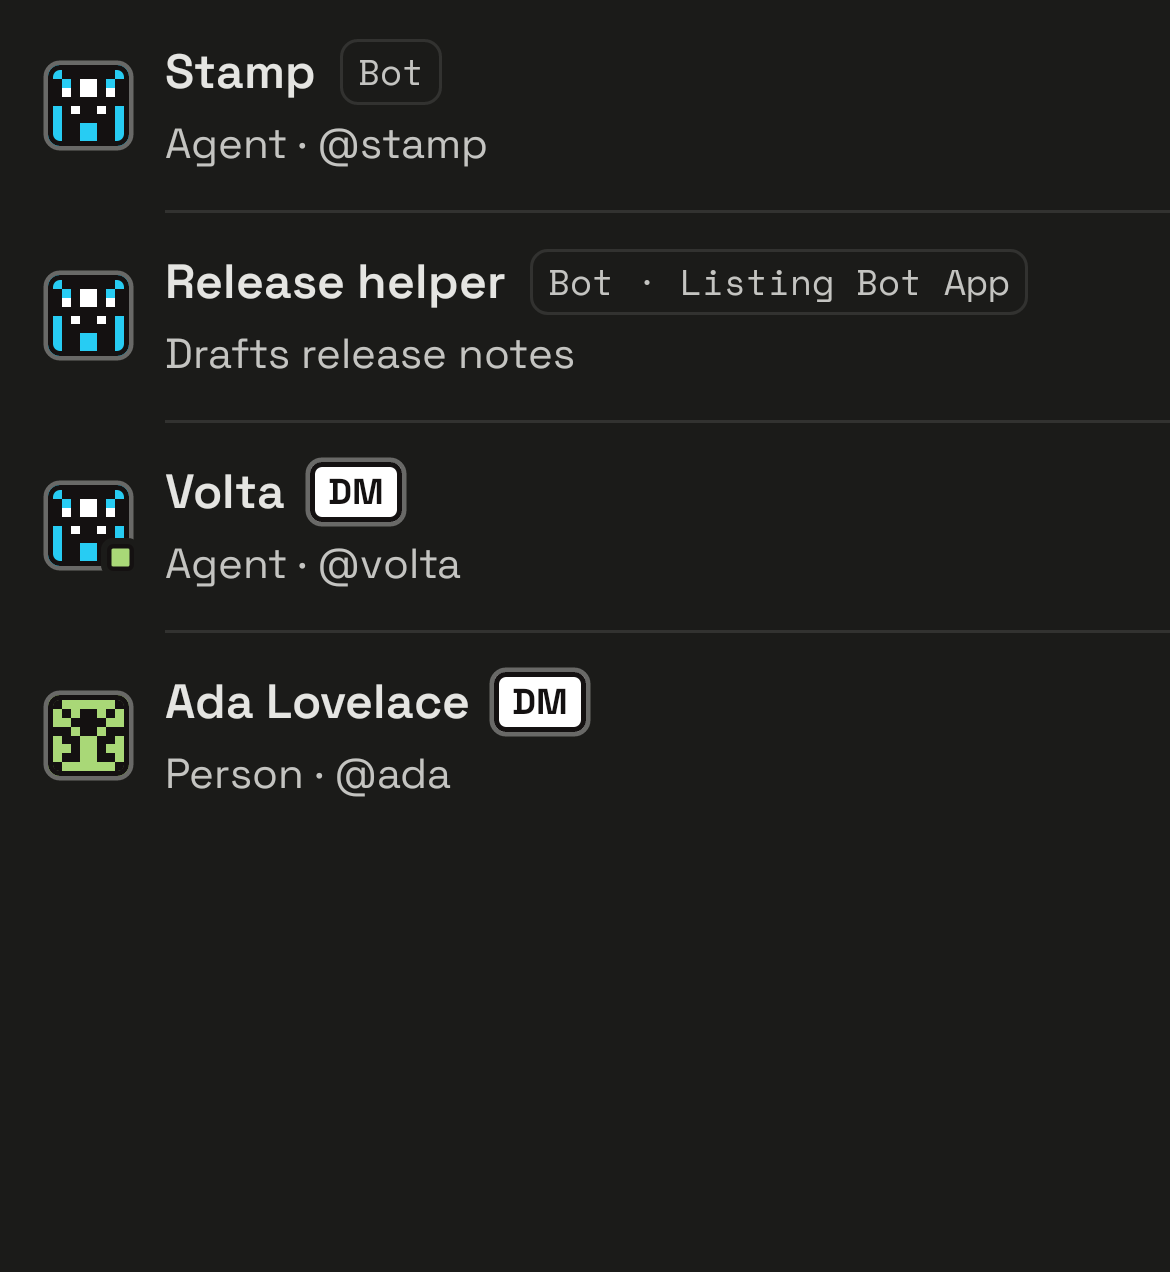
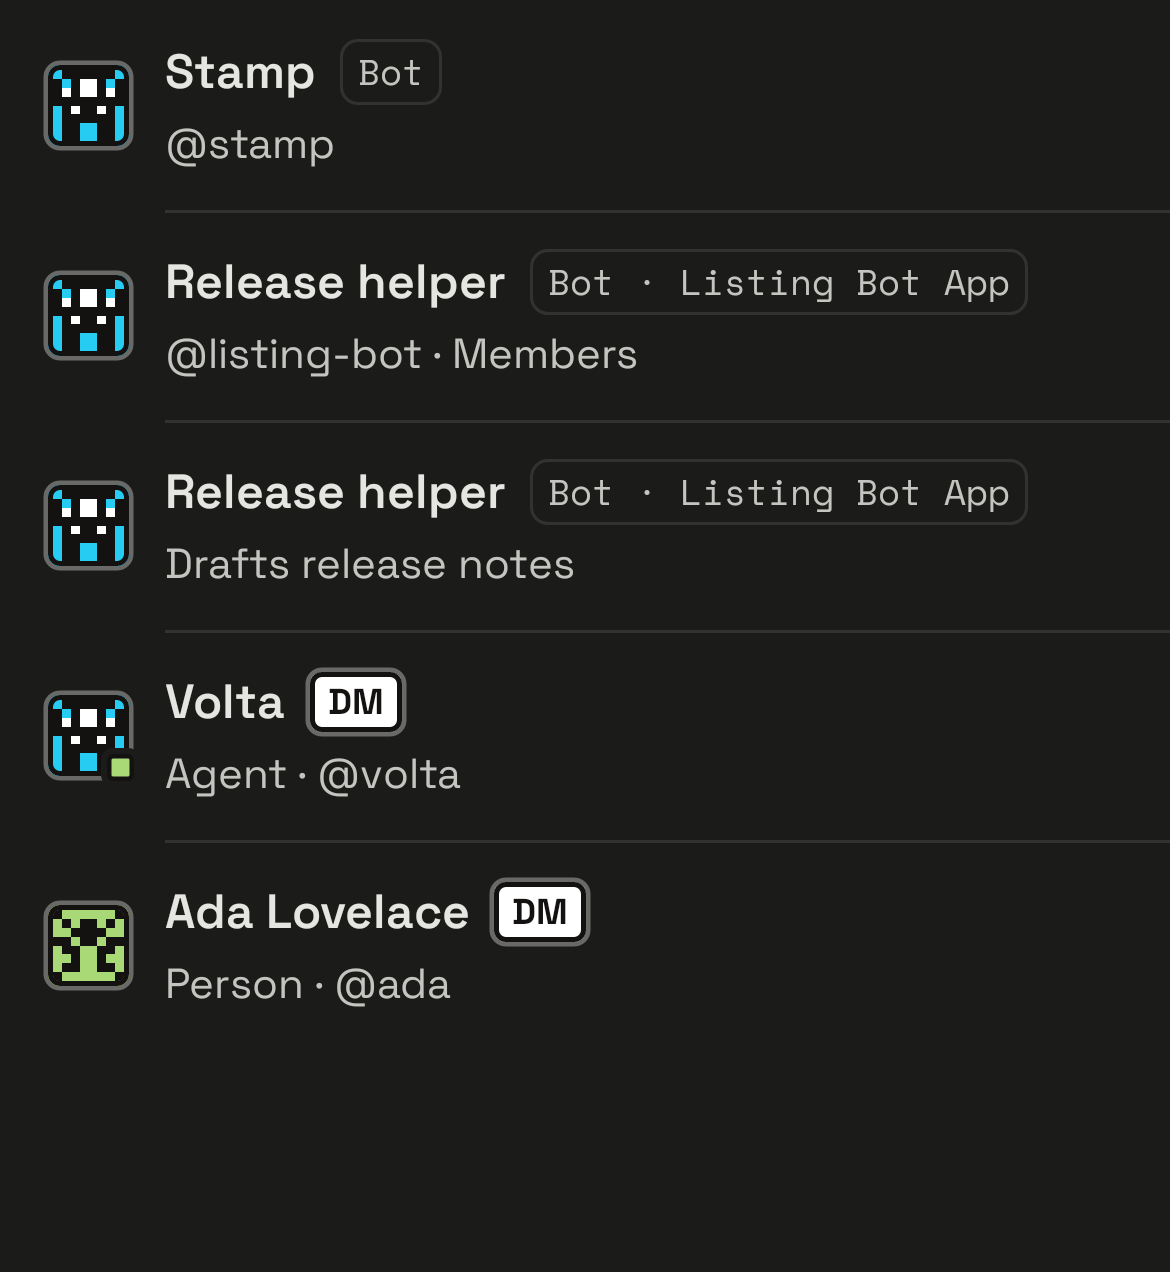
fix(search): an App Bot's search subtitle drops the "Agent" kind word
Kirby's review of #3833: a Bot row read "Bot" in its tag but "Agent · @stamp"
under its name. Web searchEntities gives an agent result its @handle as the
subtitle, so a Bot now reads "@stamp" ("@stamp · Members" outside the current
conversation; nothing when it has no handle), with the handle still marked as
a search hit. Search results and frequent entities share the row. Mention and
forward rows carry no "Agent" subtitle, so they are unchanged.

diff --git a/compose/shared/src/commonMain/kotlin/build/raft/app/SettingsHomePage.kt b/compose/shared/src/commonMain/kotlin/build/raft/app/SettingsHomePage.kt
@@ -13316,6 +13316,14 @@ internal fun SharedHomeSearchEntityRow(
         verticalAlignment = Alignment.CenterVertically
     ) {
         SharedHomeSearchEntityLeadingAvatar(result, agentStatusResolver, memberAvatarResolver)
+        // An App Bot is a Bot, not an Agent: the Bot badge takes the kind tag's place and its
+        // subtitle drops the "Agent" kind word (web `searchEntities`: an agent's subtitle is its
+        // `@handle`).
+        val appBot = rememberRaftMemberAppBot(result.appBotLookupMemberId())
+        val agentKindLabel = stringResource(Res.string.search_entity_agent)
+        val shown = remember(result, appBot != null, agentKindLabel) {
+            if (appBot != null) result.withoutAgentKindLabel(agentKindLabel) else result
+        }
         Column(modifier = Modifier.weight(1f), verticalArrangement = Arrangement.spacedBy(2.dp)) {
             Row(horizontalArrangement = Arrangement.spacedBy(8.dp), verticalAlignment = Alignment.CenterVertically) {
                 RaftSearchHitText(
@@ -13330,9 +13338,7 @@ internal fun SharedHomeSearchEntityRow(
                     overflow = TextOverflow.Ellipsis,
                     modifier = Modifier.weight(1f, fill = false)
                 )
-                // An App Bot is a Bot, not an Agent: the Bot badge takes the kind tag's place, in
-                // the kind tags' outline look (web `AppBotBadge appearance="outline"`).
-                val appBot = rememberRaftMemberAppBot(result.appBotLookupMemberId())
+                // The Bot tag in the kind tags' outline look (web `AppBotBadge appearance="outline"`).
                 if (appBot != null) {
                     RaftAppBotBadge(identity = appBot, botName = result.title, appearance = RaftBadgeAppearance.Outline)
                 } else {
@@ -13349,15 +13355,15 @@ internal fun SharedHomeSearchEntityRow(
             // A channel matched by its description shows it cut like a message snippet (web
             // `searchEntitySubtitleForQuery`): only when the description holds a hit.
             val subtitle =
-                if (result.type == SearchEntityType.Channel && result.subtitleDataRange == null) {
-                    channelDescriptionSnippet(result.subtitle, query)
+                if (shown.type == SearchEntityType.Channel && shown.subtitleDataRange == null) {
+                    channelDescriptionSnippet(shown.subtitle, query)
                 } else {
-                    result.subtitle
+                    shown.subtitle
                 }
-            RaftSearchHitText(
+            if (subtitle.isNotBlank() || appBot == null) RaftSearchHitText(
                 text = subtitle,
                 query = query,
-                highlightRange = result.subtitleDataRange.takeIf { subtitle == result.subtitle },
+                highlightRange = shown.subtitleDataRange.takeIf { subtitle == shown.subtitle },
                 style = typography.callout.withHomeSearchVisualTextScale(visualTextScale),
                 color = if (mutedArchived) RaftColor.ForegroundHint else RaftColor.TextMuted,
                 maxLines = 1,
@@ -14065,6 +14071,36 @@ internal data class SearchEntityResult(
  * `SearchHomeEntityRow` `useAppBotAgent(result.type === "agentDm" ? result.agentId : null)`):
  * an agent result, or a DM whose peer is an agent. Null for channels, computers and humans.
  */
+/**
+ * An App Bot's search subtitle without the "Agent" kind word the directory mapping puts first
+ * ("Agent · @stamp" -> "@stamp", "Agent · @stamp · Members" -> "@stamp · Members", "Agent" -> "").
+ * Web `searchEntities` gives an agent its `@handle` as the subtitle; a Bot is not an Agent.
+ * The marked `@handle` range moves with the text. Other results are returned as they are.
+ */
+internal fun SearchEntityResult.withoutAgentKindLabel(agentLabel: String): SearchEntityResult {
+    if (type != SearchEntityType.Agent || agentLabel.isEmpty() || !subtitle.startsWith(agentLabel)) return this
+    val rest = subtitle.removePrefix(agentLabel)
+    val cut =
+        when {
+            rest.isEmpty() -> agentLabel.length
+            rest.startsWith(SearchEntitySubtitleSeparator) -> agentLabel.length + SearchEntitySubtitleSeparator.length
+            else -> return this
+        }
+    val range = subtitleDataRange
+    return copy(
+        subtitle = subtitle.substring(cut),
+        subtitleDataRange =
+            when {
+                range == null -> null
+                range.isEmpty() -> IntRange.EMPTY
+                range.first < cut -> IntRange.EMPTY
+                else -> (range.first - cut)..(range.last - cut)
+            },
+    )
+}
+
+private const val SearchEntitySubtitleSeparator = " · "
+
 internal fun SearchEntityResult.appBotLookupMemberId(): String? {
     if (type != SearchEntityType.Agent && type != SearchEntityType.DirectMessage) return null
     if (memberIdentity?.kind != MemberKind.Agent) return null

diff --git a/compose/shared/src/androidUnitTest/kotlin/build/raft/app/AppBotSurfacesScreenshotTest.kt b/compose/shared/src/androidUnitTest/kotlin/build/raft/app/AppBotSurfacesScreenshotTest.kt
@@ -45,7 +45,7 @@ import org.robolectric.annotation.GraphicsMode
  *  - `Volta` is an ordinary agent: its light, runtime, "Agent" tag and "Offline" line stay.
  *
  * Frames: Home DMs (badge after the name; no light, no runtime), search results (the outline Bot
- * tag replaces the kind tag; no light), @-mention suggestions (Bot replaces "Agent"; no light),
+ * tag replaces the kind tag; a Bot's subtitle is "@stamp", not "Agent · @stamp"; no light), @-mention suggestions (Bot replaces "Agent"; no light),
  * forward targets (open DM and new DM), channel members + Create Channel's member picker (badge
  * after the name; no light, no "Offline" line). Reports land in
  * `build/reports/home-screenshots/`; verify / record as [RaftRobolectricScreenshot].
@@ -170,13 +170,19 @@ private fun searchResult(key: String, type: SearchEntityType, title: String, sub
         conversationIdentity = null,
         avatarWireValue = "pixel:robot".takeIf { kind == MemberKind.Agent },
         showPresence = kind == MemberKind.Agent,
+        // As `toHomeSearchEntityResult` marks it: only the "@handle" after the kind word is data.
+        subtitleDataRange =
+            subtitle.indexOf('@').takeIf { it >= 0 }?.let { at ->
+                at until subtitle.indexOf(" · ", at).let { end -> if (end < 0) subtitle.length else end }
+            },
     )
 
 @Composable
 private fun SearchRows() {
     listOf(
         searchResult("a", SearchEntityType.Agent, "Stamp", "Agent · @stamp", "agent-stamp", MemberKind.Agent),
-        searchResult("b", SearchEntityType.DirectMessage, "Release helper", "Drafts release notes", "agent-helper", MemberKind.Agent),
+        searchResult("b", SearchEntityType.Agent, "Release helper", "Agent · @listing-bot · Members", "agent-helper", MemberKind.Agent),
+        searchResult("b2", SearchEntityType.DirectMessage, "Release helper", "Drafts release notes", "agent-helper", MemberKind.Agent),
         searchResult("c", SearchEntityType.Agent, "Volta", "Agent · @volta", "agent-volta", MemberKind.Agent),
         searchResult("d", SearchEntityType.Human, "Ada Lovelace", "Person · @ada", "human-ada", MemberKind.Human),
     ).forEachIndexed { index, result ->

diff --git a/compose/shared/src/commonTest/kotlin/build/raft/app/RaftAppBotSurfacesTest.kt b/compose/shared/src/commonTest/kotlin/build/raft/app/RaftAppBotSurfacesTest.kt
@@ -73,6 +73,28 @@ class RaftAppBotSurfacesTest {
         assertNull(searchResult(SearchEntityType.DirectMessage, null, null).appBotLookupMemberId())
     }
 
+    @Test
+    fun aBotsSearchSubtitleDropsTheAgentKindWord() {
+        // As `toHomeSearchEntityResult` builds it: "Agent · @stamp", only "@stamp" marked.
+        fun agent(subtitle: String, range: IntRange?) =
+            searchResult(SearchEntityType.Agent, "agent-1", MemberKind.Agent).copy(subtitle = subtitle, subtitleDataRange = range)
+        val handle = agent("Agent · @stamp", 8..13).withoutAgentKindLabel("Agent")
+        assertEquals("@stamp", handle.subtitle)
+        assertEquals(0..5, handle.subtitleDataRange)
+        val members = agent("Agent · @stamp · Members", 8..13).withoutAgentKindLabel("Agent")
+        assertEquals("@stamp · Members", members.subtitle)
+        assertEquals(0..5, members.subtitleDataRange)
+        val bare = agent("Agent", IntRange.EMPTY).withoutAgentKindLabel("Agent")
+        assertEquals("", bare.subtitle)
+        assertEquals(IntRange.EMPTY, bare.subtitleDataRange)
+        // A description or another label is left alone; so is anything that is not an agent result.
+        assertEquals("Agents helper", agent("Agents helper", null).withoutAgentKindLabel("Agent").subtitle)
+        val dm = searchResult(SearchEntityType.DirectMessage, "agent-1", MemberKind.Agent).copy(subtitle = "Agent · x")
+        assertEquals("Agent · x", dm.withoutAgentKindLabel("Agent").subtitle)
+        // Localized label (zh-CN catalog value is irrelevant here: whatever the row passes).
+        assertEquals("@stamp", agent("智能体 · @stamp", 6..11).withoutAgentKindLabel("智能体").subtitle)
+    }
+
     // Mentions.
 
     @Test
